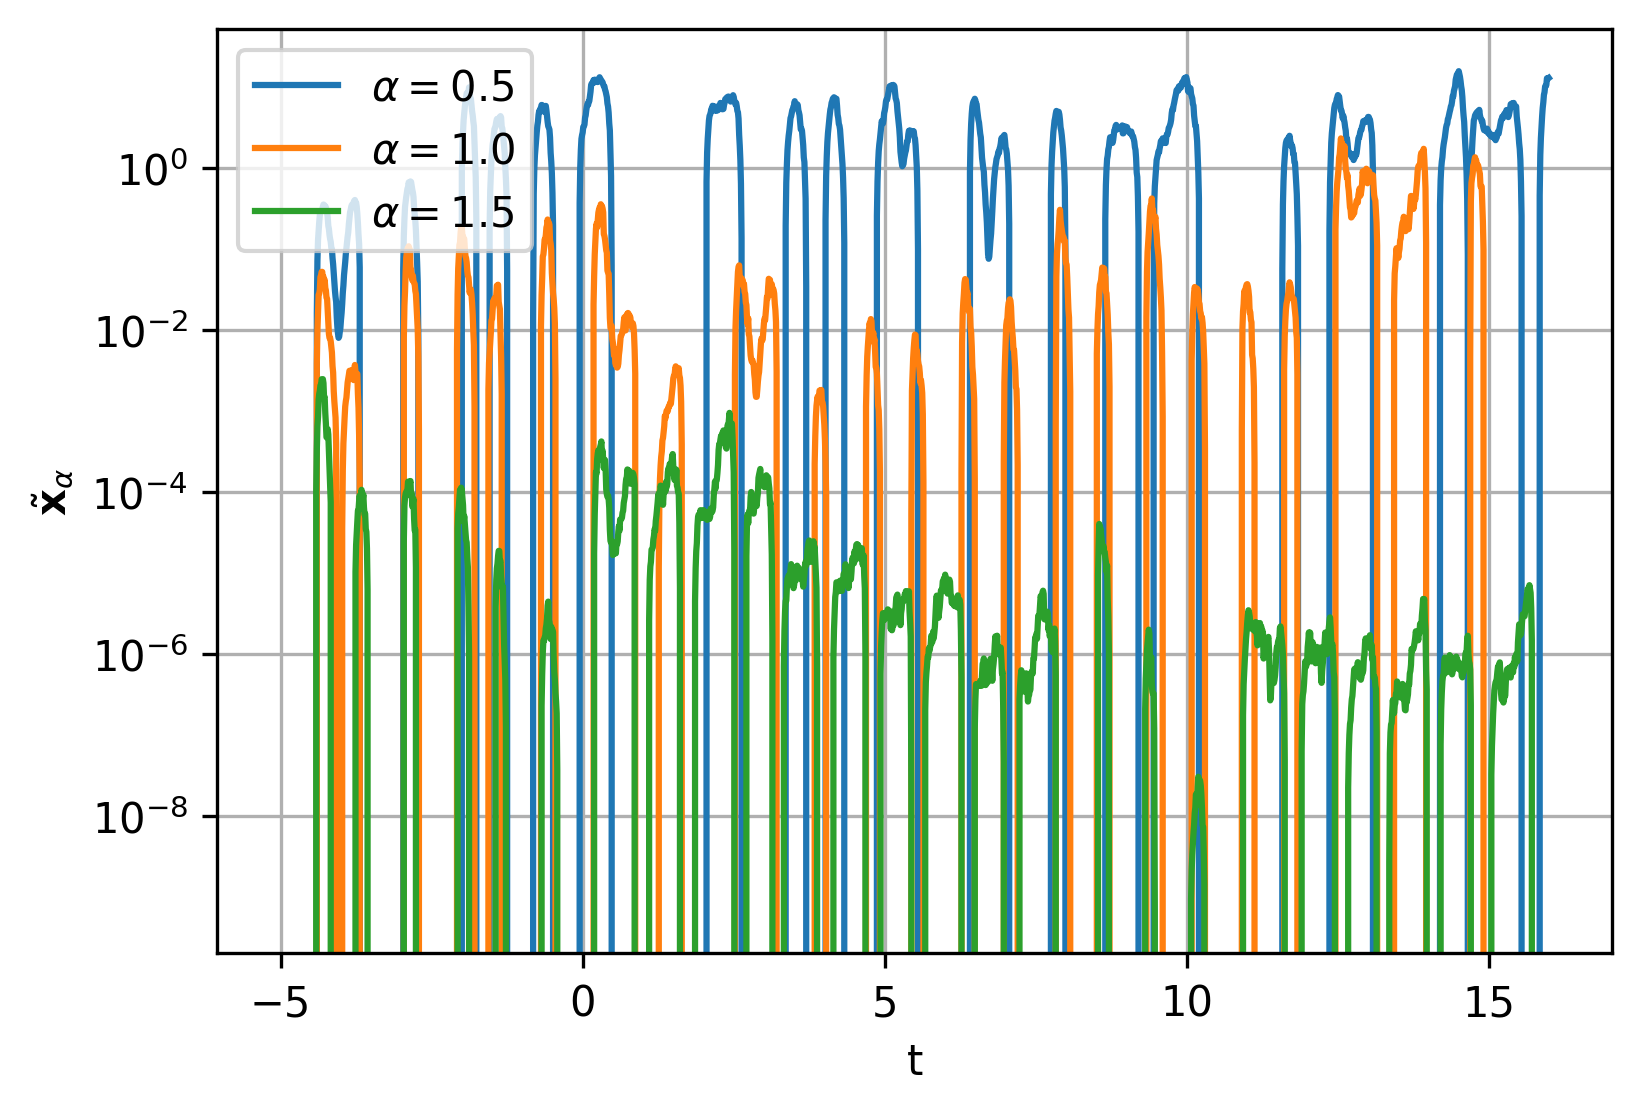
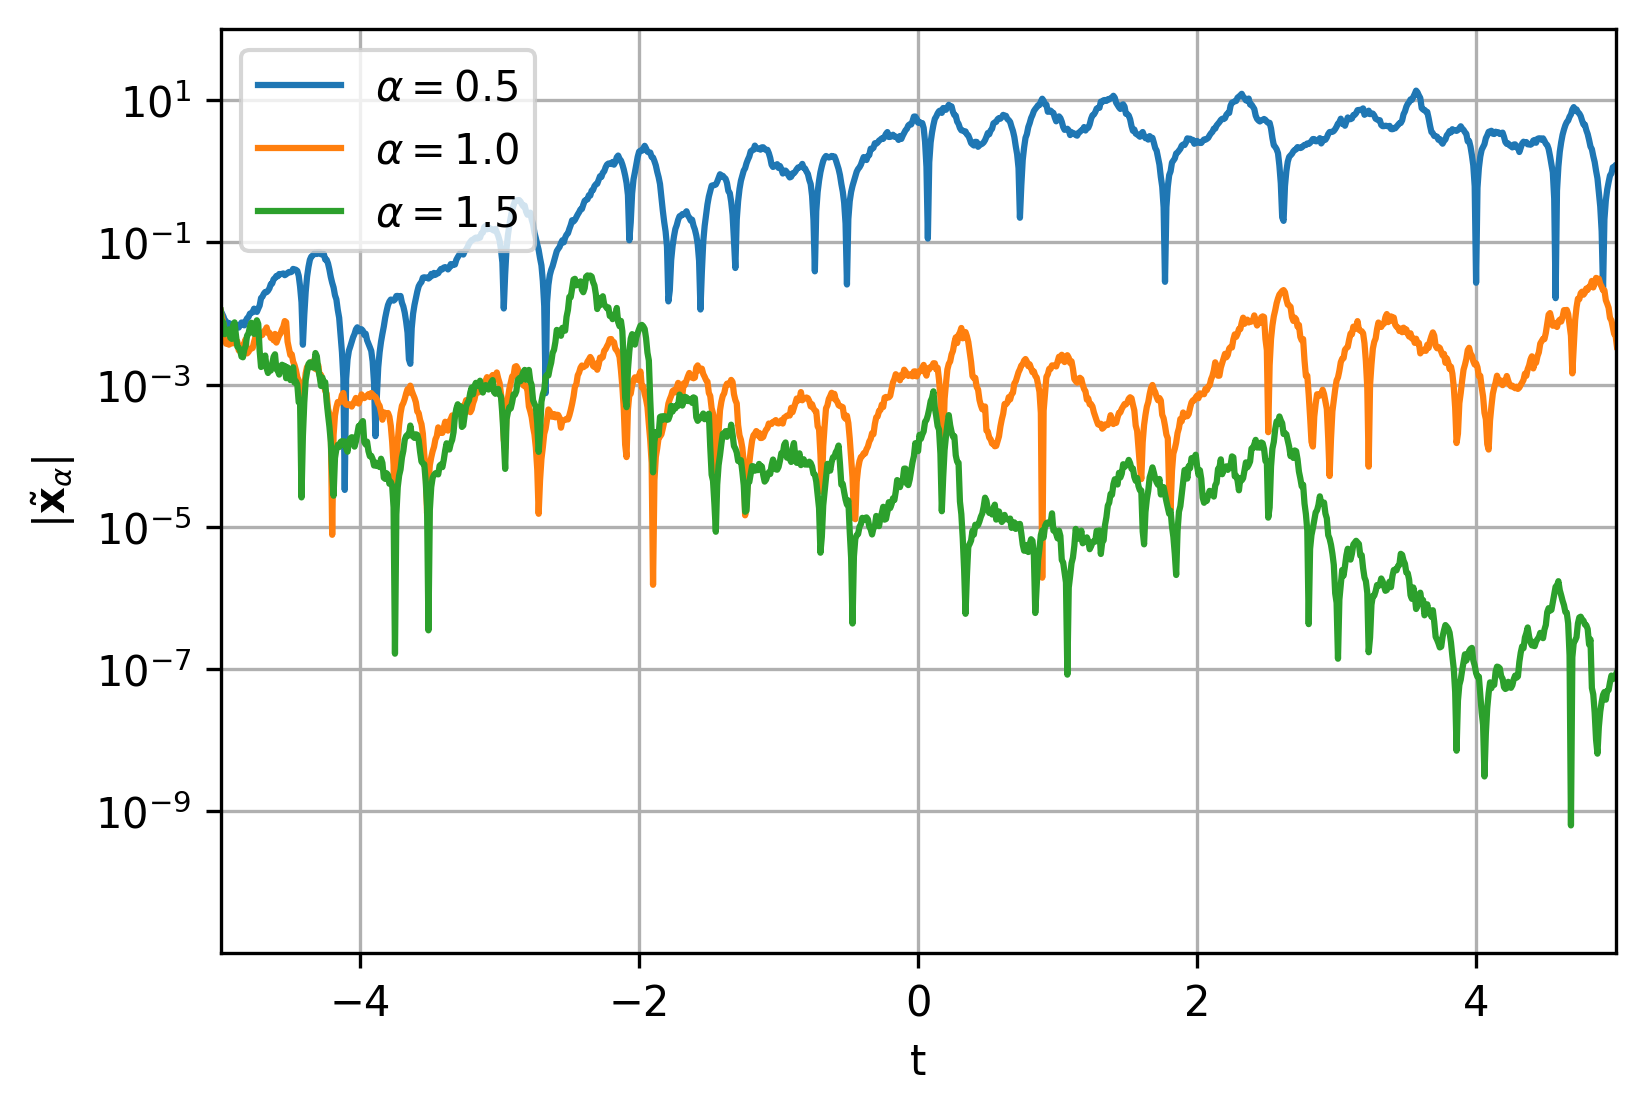
fix up alpha plot

diff --git a/naive-stabilization.py b/naive-stabilization.py
@@ -83,13 +83,14 @@ for alpha in alphas:
         xtilde[n+1,:] = xtilde[n,:] + np.matmul(dfdx(x_alpha[n,:]),xtilde[n,:])*dt + naive_model(alpha)*dW[n]
         x_alpha[n+1,:] = xh[n+1,:] + xtilde[n+1,:]
 
-    plt.plot(t,(((xtilde[:,0]))),label=r"$\alpha = $" + str(alpha))
+    plt.plot(t,((np.abs(xtilde[:,0]))),label=r"$\alpha = $" + str(alpha))
     plt.xlabel("t")
     plt.yscale("log")
-    plt.ylabel(r"$\tilde{\mathbf{x}}_\alpha$")
+    plt.ylabel(r"$|\tilde{\mathbf{x}}_\alpha|$")
     #plt.title(r"$\alpha$ = " + str(alpha))
     plt.legend(loc='upper left')
     #plt.ylim(-50,50)
+    plt.xlim(-5,5)
     plt.grid()
 
 # plt.subplot(1,3,2)
